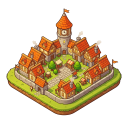
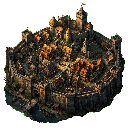
feat(ui): refine map node visuals, sizes and add chroma-key background removal scripts

diff --git a/src/ui/MapScene.ts b/src/ui/MapScene.ts
@@ -30,7 +30,7 @@ export class MapScene extends Phaser.Scene {
 
   preload() {
     // 載入背景圖
-    this.load.image('bg-map', './bg-map.png');
+    this.load.image('bg-map', './bg-map.webp');
     this.load.svg('combat-sword', './assets/combat_sword.svg', { width: 48, height: 96 });
 
     // 載入 Isometric 地圖節點圖示 (v2 簡潔高對比風格)
@@ -138,8 +138,7 @@ export class MapScene extends Phaser.Scene {
       const px = (node.x / 100) * 1600;
       const py = (node.y / 100) * 900;
 
-      let glowColor = '#000000';
-      
+      let glowColor = '#ffffff';
       if (node.isPlayerBase) {
         glowColor = '#ffd700'; // 金色
       } else if (node.ownerFactionId) {
@@ -148,26 +147,24 @@ export class MapScene extends Phaser.Scene {
       } else if (node.feature === NodeFeature.MONSTER_NEST) {
         glowColor = '#dc2626'; // 紅色
       } else if (node.feature === NodeFeature.SUBJUGATION) {
-        glowColor = '#6b7280'; // 灰色
+        glowColor = '#9ca3af'; // 灰色
       }
 
       // 繪製 Isometric 3/4 俯視角地圖節點圖案與地基陰影
-      const baseShadow = this.add.ellipse(0, 8, 38, 14, 0x000000, 0.45);
+      const baseShadow = this.add.ellipse(0, 10, 48, 18, 0x000000, 0.45); // 稍微放大地基陰影以配合 55 的圖示
       const textureKey = getNodeTextureKey(node);
-      const iconSprite = this.add.image(0, -8, textureKey).setDisplaySize(44, 44);
+      const iconSprite = this.add.image(0, -10, textureKey).setDisplaySize(55, 55);
 
-      // 繪製名字標籤 (黑金羊皮框質感)
-      const labelText = this.add.text(0, 22, node.name, {
+      // 繪製名字標籤 (移除黑框，改為純文字加發光陰影)
+      const labelText = this.add.text(0, 28, node.name, {
         fontSize: '11px',
         color: '#fef08a',
         fontFamily: 'Cinzel, sans-serif',
-        fontStyle: 'bold',
-        backgroundColor: 'rgba(20, 15, 10, 0.88)',
-        padding: { x: 5, y: 2 }
+        fontStyle: 'bold'
       }).setOrigin(0.5);
 
-      labelText.setShadow(1, 1, '#000000', 2, true, true);
-      labelText.setShadow(0, 0, glowColor, 6, true, true);
+      labelText.setStroke('#000000', 4);
+      labelText.setShadow(0, 4, '#000000', 4, true, true);
 
       const container = this.add.container(px, py);
       container.add([baseShadow, iconSprite, labelText]);

diff --git a/index.html b/index.html
@@ -702,7 +702,7 @@
       width: 176px;
       height: 176px;
       border-radius: 50%;
-      background: url('./assets/btn_epic_crest.png') no-repeat center/cover;
+      background: url('./assets/btn_epic_crest.png') no-repeat center/118%;
       border: 3px solid rgba(234, 179, 8, 0.85);
       box-shadow: 0 12px 35px rgba(0, 0, 0, 0.95), inset 0 0 25px rgba(0, 0, 0, 0.6);
       cursor: pointer;

diff --git a/docs/CHANGELOG.md b/docs/CHANGELOG.md
@@ -1,3 +1,13 @@
+## [2026-07-23] 3D 據點圖示重製、尺寸標準化與自動去背腳本 (Phase 6)
+
+- **據點圖示 (Node Icons) 視覺重製**：
+  - 確立了「暗黑寫實、頂端打光 (Rim Light)」的美術風格，以解決在深色地圖上的辨識度問題。
+  - 將 `MapScene.ts` 中的節點渲染尺寸放大至 `55x55`，並微調了標籤文字與陰影的位置以避免重疊。
+  - 修復了移除非必要發光特效時意外刪除 `glowColor` 導致的懸浮 Tooltip 不顯示與放大不還原之 Bug。
+- **自動化去背與縮放腳本 (Tools)**：
+  - 開發並實裝了 `scripts/remove-green-bg.mjs`，採用綠幕去背演算法 (Chroma Key)，針對生成的節點圖片（純螢光綠底色）進行完美邊緣去背，解決了白邊與陰影被誤殺的問題。
+  - 腳本現已支援批量自動縮放畫布至 128x128 像素，確立了 `原生(128x128) -> 渲染(55x55)` 的高效能圖檔規格。
+
 ## [2026-07-23] 攻城與守城兵力系統 & 治安度擴充 (Phase 5)
 
 - **治安度系統 (Security System)**：

diff --git a/docs/HANDOVER.md b/docs/HANDOVER.md
@@ -3,6 +3,9 @@
 這份交接文件記錄了目前的開發進度、已知問題，以及下一步的建議方向，以便未來任何開發者接手時能迅速進入狀況。
 
 ## 📍 目前開發進度 (Current Status)
+- **2026-07-23 3D 據點圖示重製與規範建立 (New!)**：
+  - **美術規格統一**：確立了 3D Isometric 據點圖示的美術黃金標準為「暗黑寫實、頂部打光 (Rim Light) 以凸顯深色背景下的輪廓」。在 `MapScene.ts` 中將渲染尺寸統一規範為 `55x55`。
+  - **自動化去背流程**：開發了 `scripts/remove-green-bg.mjs`，採用綠幕去背演算法，可對生成的白底/純綠底圖片進行完美的無鋸齒去背，並自動縮放畫布至 `128x128`，完成高效率的圖檔處理閉環。
 - **2026-07-22 傭兵卡片 Tooltip 資訊精簡與換行置中排版 (New!)**：
   - **精簡內容**：移除冗長的六維屬性、戰力與裝備清單，僅展示「名稱」、「等級與職業」、「當前狀態」三項核心資訊。
   - **換行置中**：使用 `<br/>` 三行換行與 `text-align: center;` 置中樣式，整體視覺乾淨對齊。